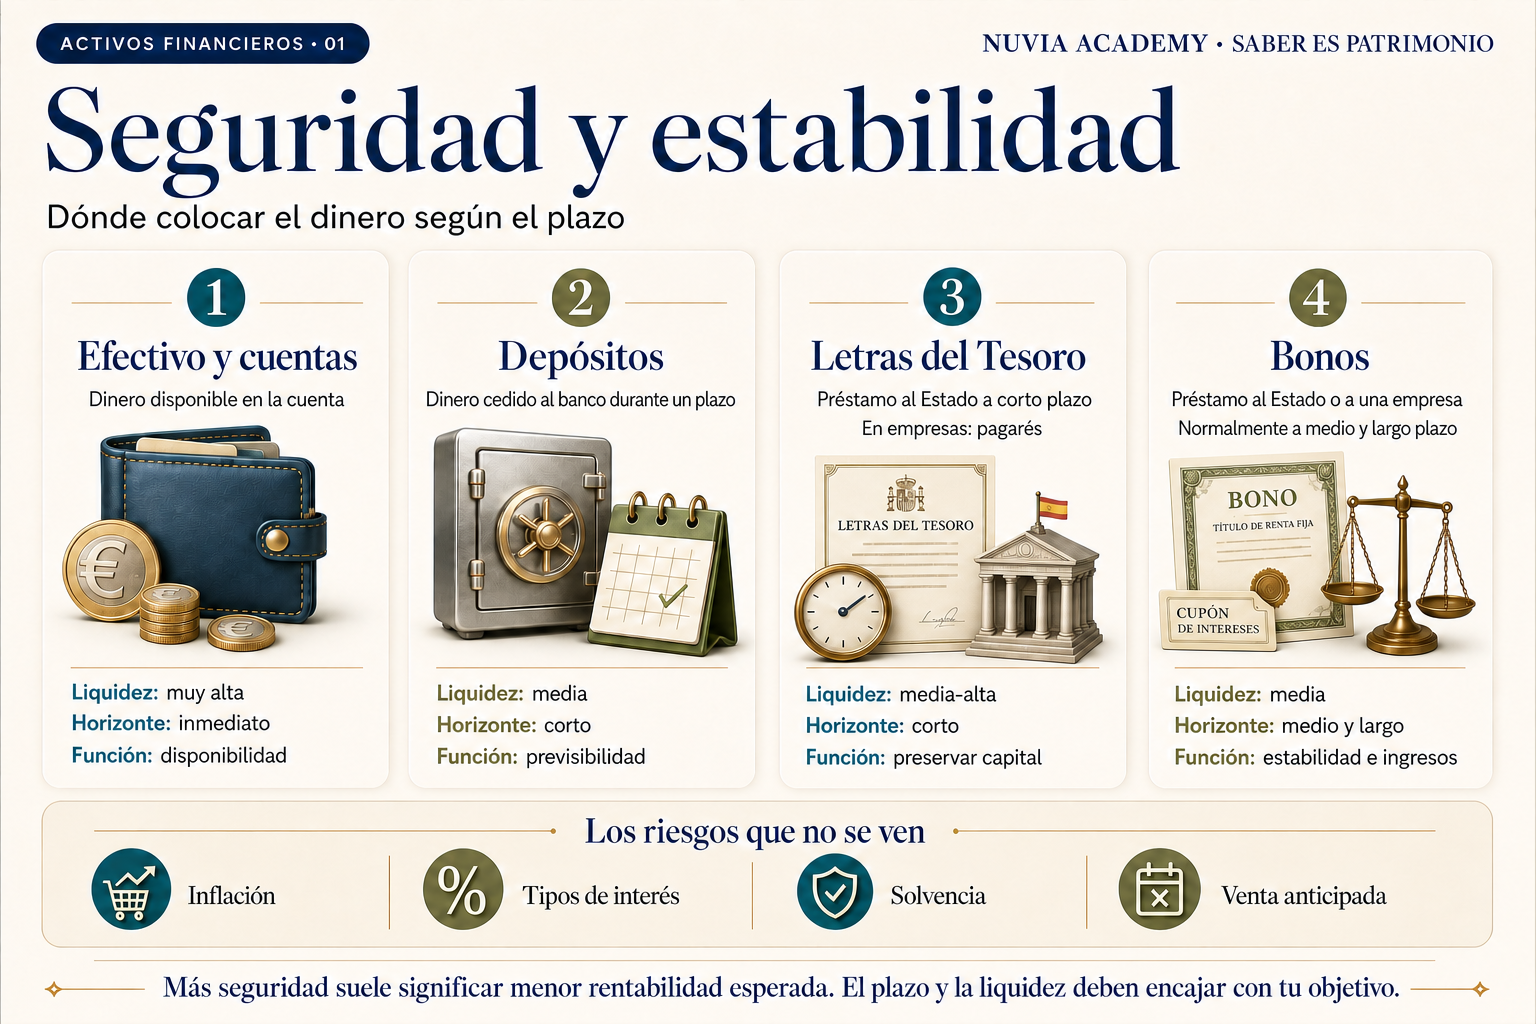
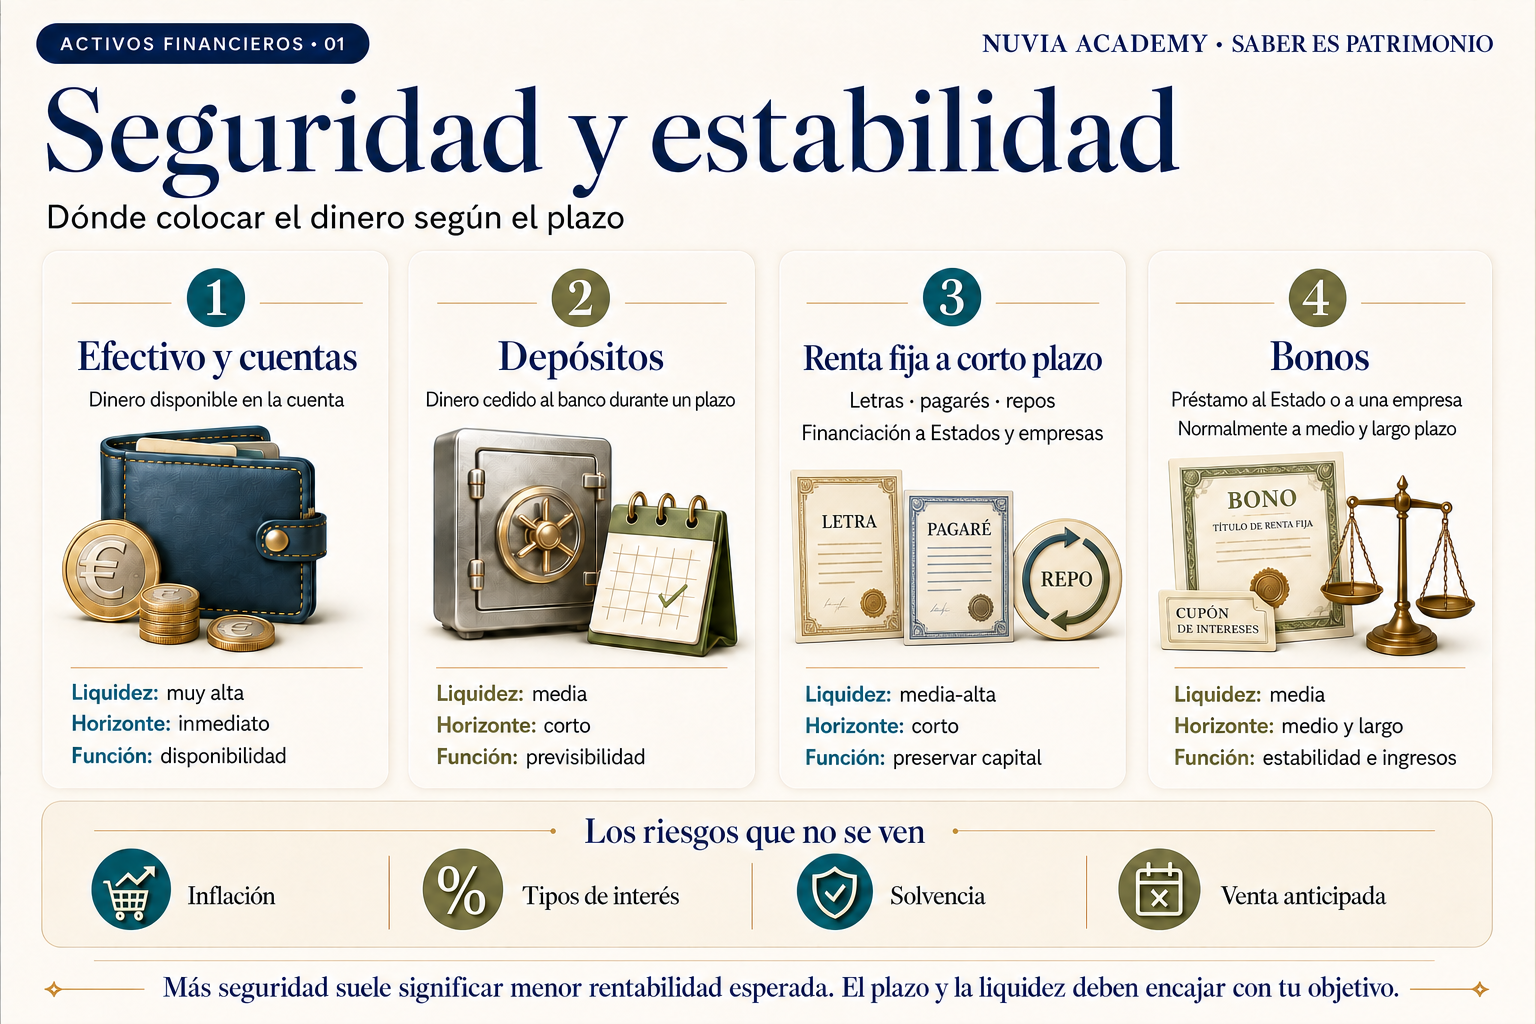
Ampliar renta fija a corto plazo en Academy

diff --git a/academia.html b/academia.html
@@ -299,7 +299,7 @@
                   <h3 style="color:var(--color-text); font-size:36px; font-weight:500; line-height:1.06; margin:0 0 15px">Seguridad y estabilidad</h3>
                   <p style="color:color-mix(in srgb, var(--color-text) 72%, transparent); font-size:14.5px; line-height:1.7; margin:0 0 12px">Antes de buscar crecimiento debemos decidir qué parte del patrimonio necesita permanecer estable y disponible. El fondo de emergencia, los gastos próximos y determinados objetivos de corto o medio plazo no deberían depender de que los mercados atraviesen un buen momento.</p>
                   <p style="color:color-mix(in srgb, var(--color-text) 72%, transparent); font-size:14.5px; line-height:1.7; margin:0">Efectivo, depósitos, letras y bonos pueden aportar distintos grados de liquidez y previsibilidad. Sin embargo, ninguno está completamente libre de riesgo: la inflación, los tipos de interés, la solvencia del emisor y una venta anticipada pueden cambiar el resultado.</p>
-                  <div style="display:flex; flex-wrap:wrap; gap:7px; margin-top:20px"><span style="border-radius:999px; background:#F2F4E6; color:#4D6127; font-size:11px; font-weight:600; padding:7px 11px">Efectivo y cuentas</span><span style="border-radius:999px; background:#F2F4E6; color:#4D6127; font-size:11px; font-weight:600; padding:7px 11px">Depósitos</span><span style="border-radius:999px; background:#F2F4E6; color:#4D6127; font-size:11px; font-weight:600; padding:7px 11px">Letras del Tesoro</span><span style="border-radius:999px; background:#F2F4E6; color:#4D6127; font-size:11px; font-weight:600; padding:7px 11px">Bonos</span></div>
+                  <div style="display:flex; flex-wrap:wrap; gap:7px; margin-top:20px"><span style="border-radius:999px; background:#F2F4E6; color:#4D6127; font-size:11px; font-weight:600; padding:7px 11px">Efectivo y cuentas</span><span style="border-radius:999px; background:#F2F4E6; color:#4D6127; font-size:11px; font-weight:600; padding:7px 11px">Depósitos</span><span style="border-radius:999px; background:#F2F4E6; color:#4D6127; font-size:11px; font-weight:600; padding:7px 11px">Renta fija a corto plazo</span><span style="border-radius:999px; background:#F2F4E6; color:#4D6127; font-size:11px; font-weight:600; padding:7px 11px">Bonos</span></div>
                 </div>
                 <div style="position:relative; aspect-ratio:16/9; display:flex; align-items:center; justify-content:center; border-radius:var(--radius-md); background:linear-gradient(145deg,#0B2347 0%,#071A38 100%); color:#ffffff; box-shadow:0 18px 44px rgba(11,35,71,.2); overflow:hidden; text-align:center; padding:28px">
                   <div><span style="color:#dbe7c2; font-size:10px; font-weight:600; letter-spacing:.22em; text-transform:uppercase">Vídeo 1 · Próximamente</span><strong style="display:block; max-width:15em; font-family:var(--font-heading); font-size:28px; font-weight:500; line-height:1.12; margin:12px auto 9px">El mapa del inversor</strong><p style="max-width:34em; color:rgba(255,255,255,.68); font-size:12.5px; line-height:1.6; margin:0 auto">Cómo elegir el lugar adecuado para el dinero que necesita seguridad, liquidez y un plazo definido.</p></div>
@@ -313,14 +313,14 @@
               <div style="display:grid; grid-template-columns:repeat(2,minmax(0,1fr)); gap:16px">
                 <article style="border:1px solid var(--color-divider); border-radius:var(--radius-md); background:#F8F8F3; padding:24px 26px"><div style="display:flex; align-items:center; gap:12px; margin-bottom:14px"><span style="display:inline-flex; align-items:center; justify-content:center; width:34px; height:34px; border-radius:999px; background:#0B5A6B; color:#ffffff; font-size:12px; font-weight:600">01</span><h4 style="color:var(--color-text); font-size:23px; font-weight:500; margin:0">Efectivo y cuentas</h4></div><p style="color:color-mix(in srgb, var(--color-text) 70%, transparent); font-size:13.5px; line-height:1.65; margin:0 0 14px">Dinero disponible en cuentas corrientes o remuneradas. Su función principal es permitir afrontar imprevistos y pagos cercanos sin depender del precio de mercado.</p><div style="display:grid; grid-template-columns:repeat(3,minmax(0,1fr)); gap:7px; margin-bottom:15px"><span style="border-radius:8px; background:#E6F1F2; color:#0B5A6B; font-size:10.5px; font-weight:600; padding:8px">Liquidez<br>Muy alta</span><span style="border-radius:8px; background:#E6F1F2; color:#0B5A6B; font-size:10.5px; font-weight:600; padding:8px">Plazo<br>Inmediato</span><span style="border-radius:8px; background:#E6F1F2; color:#0B5A6B; font-size:10.5px; font-weight:600; padding:8px">Función<br>Disponibilidad</span></div><p style="border-top:1px solid var(--color-divider); color:color-mix(in srgb, var(--color-text) 62%, transparent); font-size:11.5px; line-height:1.55; margin:0; padding-top:12px"><strong style="color:var(--color-text)">Fiscalidad:</strong> los intereses son rendimientos del capital mobiliario integrados en la base del ahorro.</p></article>
                 <article style="border:1px solid var(--color-divider); border-radius:var(--radius-md); background:#F8F8F3; padding:24px 26px"><div style="display:flex; align-items:center; gap:12px; margin-bottom:14px"><span style="display:inline-flex; align-items:center; justify-content:center; width:34px; height:34px; border-radius:999px; background:#65723D; color:#ffffff; font-size:12px; font-weight:600">02</span><h4 style="color:var(--color-text); font-size:23px; font-weight:500; margin:0">Depósitos</h4></div><p style="color:color-mix(in srgb, var(--color-text) 70%, transparent); font-size:13.5px; line-height:1.65; margin:0 0 9px">Dinero cedido al banco durante un plazo pactado, normalmente a cambio de un interés conocido. Para el ahorrador, la obligación de devolución corresponde al banco: no es un préstamo directo a los clientes financiados por la entidad.</p><p style="color:color-mix(in srgb, var(--color-text) 58%, transparent); font-size:11.5px; line-height:1.55; margin:0 0 14px">Conviene revisar la TAE, la duración y las condiciones de cancelación anticipada.</p><div style="display:grid; grid-template-columns:repeat(3,minmax(0,1fr)); gap:7px; margin-bottom:15px"><span style="border-radius:8px; background:#EEF1E5; color:#53612E; font-size:10.5px; font-weight:600; padding:8px">Liquidez<br>Media</span><span style="border-radius:8px; background:#EEF1E5; color:#53612E; font-size:10.5px; font-weight:600; padding:8px">Plazo<br>Corto</span><span style="border-radius:8px; background:#EEF1E5; color:#53612E; font-size:10.5px; font-weight:600; padding:8px">Función<br>Previsibilidad</span></div><p style="border-top:1px solid var(--color-divider); color:color-mix(in srgb, var(--color-text) 62%, transparent); font-size:11.5px; line-height:1.55; margin:0; padding-top:12px"><strong style="color:var(--color-text)">Protección:</strong> con carácter general, el FGD cubre hasta 100.000 € por titular y entidad adherida.</p></article>
-                <article style="border:1px solid var(--color-divider); border-radius:var(--radius-md); background:#F8F8F3; padding:24px 26px"><div style="display:flex; align-items:center; gap:12px; margin-bottom:14px"><span style="display:inline-flex; align-items:center; justify-content:center; width:34px; height:34px; border-radius:999px; background:#0B5A6B; color:#ffffff; font-size:12px; font-weight:600">03</span><h4 style="color:var(--color-text); font-size:23px; font-weight:500; margin:0">Letras del Tesoro</h4></div><p style="color:color-mix(in srgb, var(--color-text) 70%, transparent); font-size:13.5px; line-height:1.65; margin:0 0 9px">Préstamos al Estado español a corto plazo. Normalmente se emiten al descuento: se adquieren por debajo del importe que el Estado devuelve al vencimiento.</p><p style="color:color-mix(in srgb, var(--color-text) 58%, transparent); font-size:11.5px; line-height:1.55; margin:0 0 14px">En la deuda privada, el instrumento comparable de corto plazo es el <strong style="color:var(--color-text)">pagaré de empresa</strong>: el prestatario es una compañía, no el Tesoro.</p><div style="display:grid; grid-template-columns:repeat(3,minmax(0,1fr)); gap:7px; margin-bottom:15px"><span style="border-radius:8px; background:#E6F1F2; color:#0B5A6B; font-size:10.5px; font-weight:600; padding:8px">Liquidez<br>Media-alta</span><span style="border-radius:8px; background:#E6F1F2; color:#0B5A6B; font-size:10.5px; font-weight:600; padding:8px">Plazo<br>Corto</span><span style="border-radius:8px; background:#E6F1F2; color:#0B5A6B; font-size:10.5px; font-weight:600; padding:8px">Función<br>Preservar</span></div><p style="border-top:1px solid var(--color-divider); color:color-mix(in srgb, var(--color-text) 62%, transparent); font-size:11.5px; line-height:1.55; margin:0; padding-top:12px"><strong style="color:var(--color-text)">Fiscalidad:</strong> el rendimiento obtenido se considera rendimiento del capital mobiliario.</p></article>
+                <article style="border:1px solid var(--color-divider); border-radius:var(--radius-md); background:#F8F8F3; padding:24px 26px"><div style="display:flex; align-items:center; gap:12px; margin-bottom:14px"><span style="display:inline-flex; align-items:center; justify-content:center; width:34px; height:34px; border-radius:999px; background:#0B5A6B; color:#ffffff; font-size:12px; font-weight:600">03</span><h4 style="color:var(--color-text); font-size:23px; font-weight:500; margin:0">Renta fija a corto plazo</h4></div><p style="color:color-mix(in srgb, var(--color-text) 70%, transparent); font-size:13.5px; line-height:1.65; margin:0 0 9px">Instrumentos utilizados por Estados, entidades financieras y empresas para obtener financiación durante periodos breves. Entre los más habituales se encuentran las <strong style="color:var(--color-text)">Letras del Tesoro</strong>, los <strong style="color:var(--color-text)">pagarés de empresa</strong> y los <strong style="color:var(--color-text)">repos</strong>.</p><p style="color:color-mix(in srgb, var(--color-text) 58%, transparent); font-size:11.5px; line-height:1.55; margin:0 0 14px">Los fondos monetarios y algunos fondos de renta fija a corto plazo son vehículos que invierten en una cartera diversificada de estos activos. El riesgo depende del emisor, el vencimiento, las garantías y la liquidez de cada instrumento.</p><div style="display:grid; grid-template-columns:repeat(3,minmax(0,1fr)); gap:7px; margin-bottom:15px"><span style="border-radius:8px; background:#E6F1F2; color:#0B5A6B; font-size:10.5px; font-weight:600; padding:8px">Liquidez<br>Media-alta</span><span style="border-radius:8px; background:#E6F1F2; color:#0B5A6B; font-size:10.5px; font-weight:600; padding:8px">Plazo<br>Corto</span><span style="border-radius:8px; background:#E6F1F2; color:#0B5A6B; font-size:10.5px; font-weight:600; padding:8px">Función<br>Preservar</span></div><p style="border-top:1px solid var(--color-divider); color:color-mix(in srgb, var(--color-text) 62%, transparent); font-size:11.5px; line-height:1.55; margin:0; padding-top:12px"><strong style="color:var(--color-text)">Fiscalidad:</strong> los intereses y rendimientos obtenidos se consideran generalmente rendimientos del capital mobiliario.</p></article>
                 <article style="border:1px solid var(--color-divider); border-radius:var(--radius-md); background:#F8F8F3; padding:24px 26px"><div style="display:flex; align-items:center; gap:12px; margin-bottom:14px"><span style="display:inline-flex; align-items:center; justify-content:center; width:34px; height:34px; border-radius:999px; background:#65723D; color:#ffffff; font-size:12px; font-weight:600">04</span><h4 style="color:var(--color-text); font-size:23px; font-weight:500; margin:0">Bonos</h4></div><p style="color:color-mix(in srgb, var(--color-text) 70%, transparent); font-size:13.5px; line-height:1.65; margin:0 0 9px">Préstamos a un Estado o a una empresa, normalmente a medio o largo plazo. El emisor se compromete a devolver el capital en una fecha determinada y puede pagar cupones periódicos.</p><p style="color:color-mix(in srgb, var(--color-text) 58%, transparent); font-size:11.5px; line-height:1.55; margin:0 0 14px">El riesgo depende de quién recibe el dinero: no ofrece la misma solvencia un Estado que una empresa, ni todas las empresas presentan la misma capacidad de pago.</p><div style="display:grid; grid-template-columns:repeat(3,minmax(0,1fr)); gap:7px; margin-bottom:15px"><span style="border-radius:8px; background:#EEF1E5; color:#53612E; font-size:10.5px; font-weight:600; padding:8px">Liquidez<br>Media</span><span style="border-radius:8px; background:#EEF1E5; color:#53612E; font-size:10.5px; font-weight:600; padding:8px">Plazo<br>Medio y largo</span><span style="border-radius:8px; background:#EEF1E5; color:#53612E; font-size:10.5px; font-weight:600; padding:8px">Función<br>Estabilidad</span></div><p style="border-top:1px solid var(--color-divider); color:color-mix(in srgb, var(--color-text) 62%, transparent); font-size:11.5px; line-height:1.55; margin:0; padding-top:12px"><strong style="color:var(--color-text)">Fiscalidad:</strong> cupones y rendimientos de transmisión o amortización tributan como capital mobiliario.</p></article>
               </div>
             </section>
 
             <section style="border-radius:var(--radius-md); background:var(--color-surface); box-shadow:var(--shadow-sm); overflow:hidden">
               <div style="display:flex; align-items:end; justify-content:space-between; gap:26px; padding:30px 38px 20px"><div><p style="color:#7C9A44; font-size:10.5px; font-weight:600; letter-spacing:.22em; text-transform:uppercase; margin:0 0 8px">Infografía</p><h3 style="color:var(--color-text); font-size:29px; font-weight:500; line-height:1.1; margin:0">Dónde colocar el dinero según el plazo</h3></div><p style="max-width:36em; color:color-mix(in srgb, var(--color-text) 60%, transparent); font-size:12.5px; line-height:1.6; margin:0">Una comparación visual de liquidez, horizonte, función y riesgos principales.</p></div>
-              <div style="padding:0 20px 20px"><img src="src/assets/education/nuvia-academy/activos-seguridad-estabilidad-infografia.png" alt="Infografía comparativa sobre efectivo y cuentas, depósitos, Letras del Tesoro y bonos, con su liquidez, horizonte y función" style="display:block; width:100%; height:auto; border-radius:var(--radius-md)"></div>
+              <div style="padding:0 20px 20px"><img src="src/assets/education/nuvia-academy/activos-seguridad-estabilidad-infografia.png" alt="Infografía comparativa sobre efectivo y cuentas, depósitos, renta fija a corto plazo y bonos, con su liquidez, horizonte y función" style="display:block; width:100%; height:auto; border-radius:var(--radius-md)"></div>
             </section>
 
             <section style="display:grid; grid-template-columns:minmax(0,.72fr) minmax(0,1.28fr); gap:20px">
